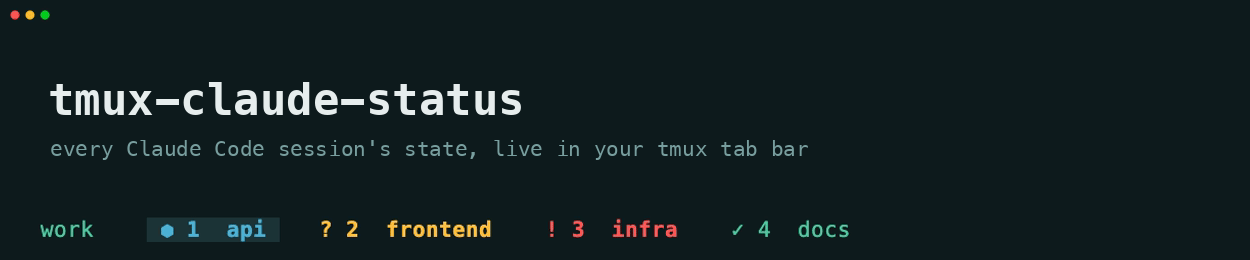
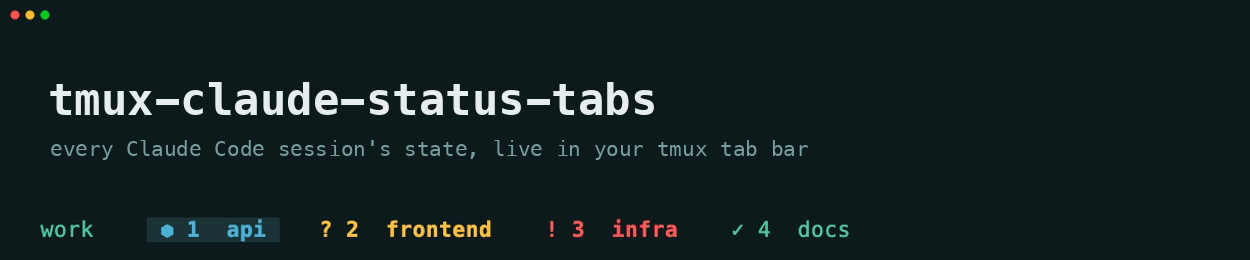
Take the name tmux-claude-status-tabs
farnots/tmux-claude-status already exists — same concept, listed in
awesome-tmux — and sharing its exact name meant permanent confusion in
every listing. GitHub redirects the old URLs.

Changed region(s): [[0.4056, 0.3077, 0.5304, 0.4615]]

diff --git a/demo/cover.py b/demo/cover.py
@@ -23,7 +23,7 @@ def main():
     frames = list(ImageSequence.Iterator(src))
     im = frames[len(frames) // 2].convert("RGB")
     draw = ImageDraw.Draw(im)
-    draw.text((48, 74), "tmux-claude-status", font=font(44), fill=(230, 237, 237))
+    draw.text((48, 74), "tmux-claude-status-tabs", font=font(44), fill=(230, 237, 237))
     draw.text((50, 136), "every Claude Code session's state, live in your tmux tab bar",
               font=font(21, index=0), fill=(120, 158, 158))
     im.save(PNG)

diff --git a/demo/social.py b/demo/social.py
@@ -32,7 +32,7 @@ def main():
     im = Image.new("RGB", (W, H), BG)
     d = ImageDraw.Draw(im)
 
-    d.text((72, 128), "tmux-claude-status", font=menlo(54), fill=FG)
+    d.text((72, 128), "tmux-claude-status-tabs", font=menlo(54), fill=FG)
     d.text((75, 216), "every Claude Code session's state,", font=menlo(26, index=0), fill=DIM)
     d.text((75, 254), "live in your tmux tab bar", font=menlo(26, index=0), fill=DIM)
 

diff --git a/README.md b/README.md
@@ -1,8 +1,8 @@
-# tmux-claude-status
+# tmux-claude-status-tabs
 
-[![tests](https://github.com/LiveNL/tmux-claude-status/actions/workflows/tests.yml/badge.svg)](https://github.com/LiveNL/tmux-claude-status/actions/workflows/tests.yml)
+[![tests](https://github.com/LiveNL/tmux-claude-status-tabs/actions/workflows/tests.yml/badge.svg)](https://github.com/LiveNL/tmux-claude-status-tabs/actions/workflows/tests.yml)
 
-![tmux-claude-status — every Claude Code session's state, live in your tmux tab bar](screenshots/cover.png)
+![tmux-claude-status-tabs — every Claude Code session's state, live in your tmux tab bar](screenshots/cover.png)
 
 Run five Claude sessions in five windows and you spend your day guessing which tab wants you. This makes the bar answer it at a glance.
 
@@ -35,8 +35,8 @@ Curious why the tab never lies? Read [how it works](docs/how-it-works.md).
 ## Install
 
 ```bash
-git clone https://github.com/LiveNL/tmux-claude-status
-cd tmux-claude-status
+git clone https://github.com/LiveNL/tmux-claude-status-tabs
+cd tmux-claude-status-tabs
 bash install.sh
 ```
 
@@ -46,7 +46,7 @@ Requires [tmux](https://github.com/tmux/tmux) ≥ 3.0, [jq](https://stedolan.git
 
 Then add **one** of these to `~/.tmux.conf` and reload:
 
-- **Drop-in:** `source-file /path/to/tmux-claude-status/tmux/claude-state.conf`
+- **Drop-in:** `source-file /path/to/tmux-claude-status-tabs/tmux/claude-state.conf`
 - **Your own theme:** prepend the `#{?...}` fragment from `tmux/claude-state-prefix.txt` to your existing `window-status-format` and `window-status-current-format`.
 
 ## Desktop notifications (macOS)
